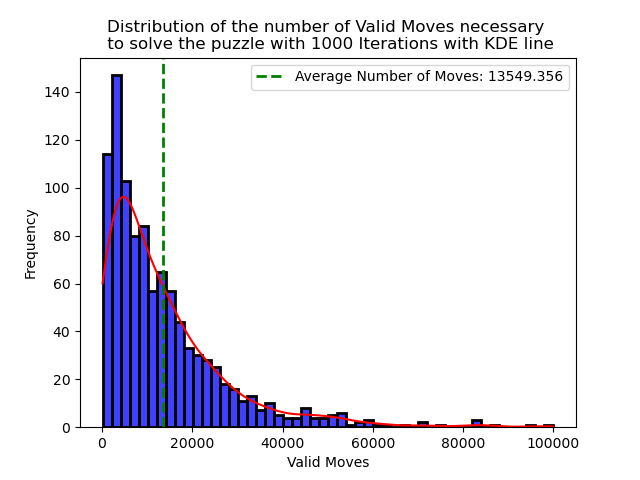
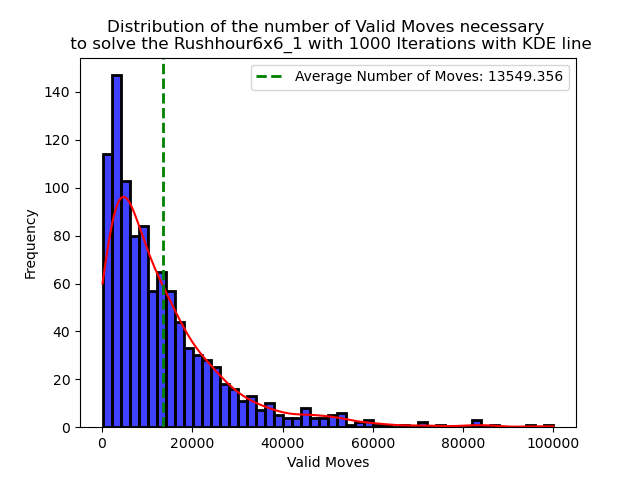
small change to title of the plot in plot_random.py

Changed region(s): [[0.0938, 0.0625, 0.9375, 0.125]]

diff --git a/plot_random.py b/plot_random.py
@@ -18,7 +18,9 @@ def plot_random_csv(csv):
     sns.histplot(df['valid_moves'], bins=50, edgecolor='black', color='blue')
     sns.histplot(df['valid_moves'], bins=50, kde=True, color='red', linewidth=2, alpha=0)
 
-    plt.title(f'Distribution of the number of Valid Moves necessary \n to solve the puzzle with {number_of_iterations} Iterations with KDE line')
+    name_puzzle = os.path.splitext(os.path.basename(file_path))[0]
+
+    plt.title(f'Distribution of the number of Valid Moves necessary \n to solve the {name_puzzle} with {number_of_iterations} Iterations with KDE line')
     plt.xlabel('Valid Moves')
     plt.ylabel('Frequency')
 
@@ -27,7 +29,7 @@ def plot_random_csv(csv):
     plt.legend()
 
     data_directory = os.path.dirname(file_path)
-    plot_filename = f"{os.path.splitext(os.path.basename(file_path))[0]}_plot.png"
+    plot_filename = f"{name_puzzle}_plot.png"
     save_path = os.path.join(data_directory, plot_filename)
     plt.savefig(save_path)
 
